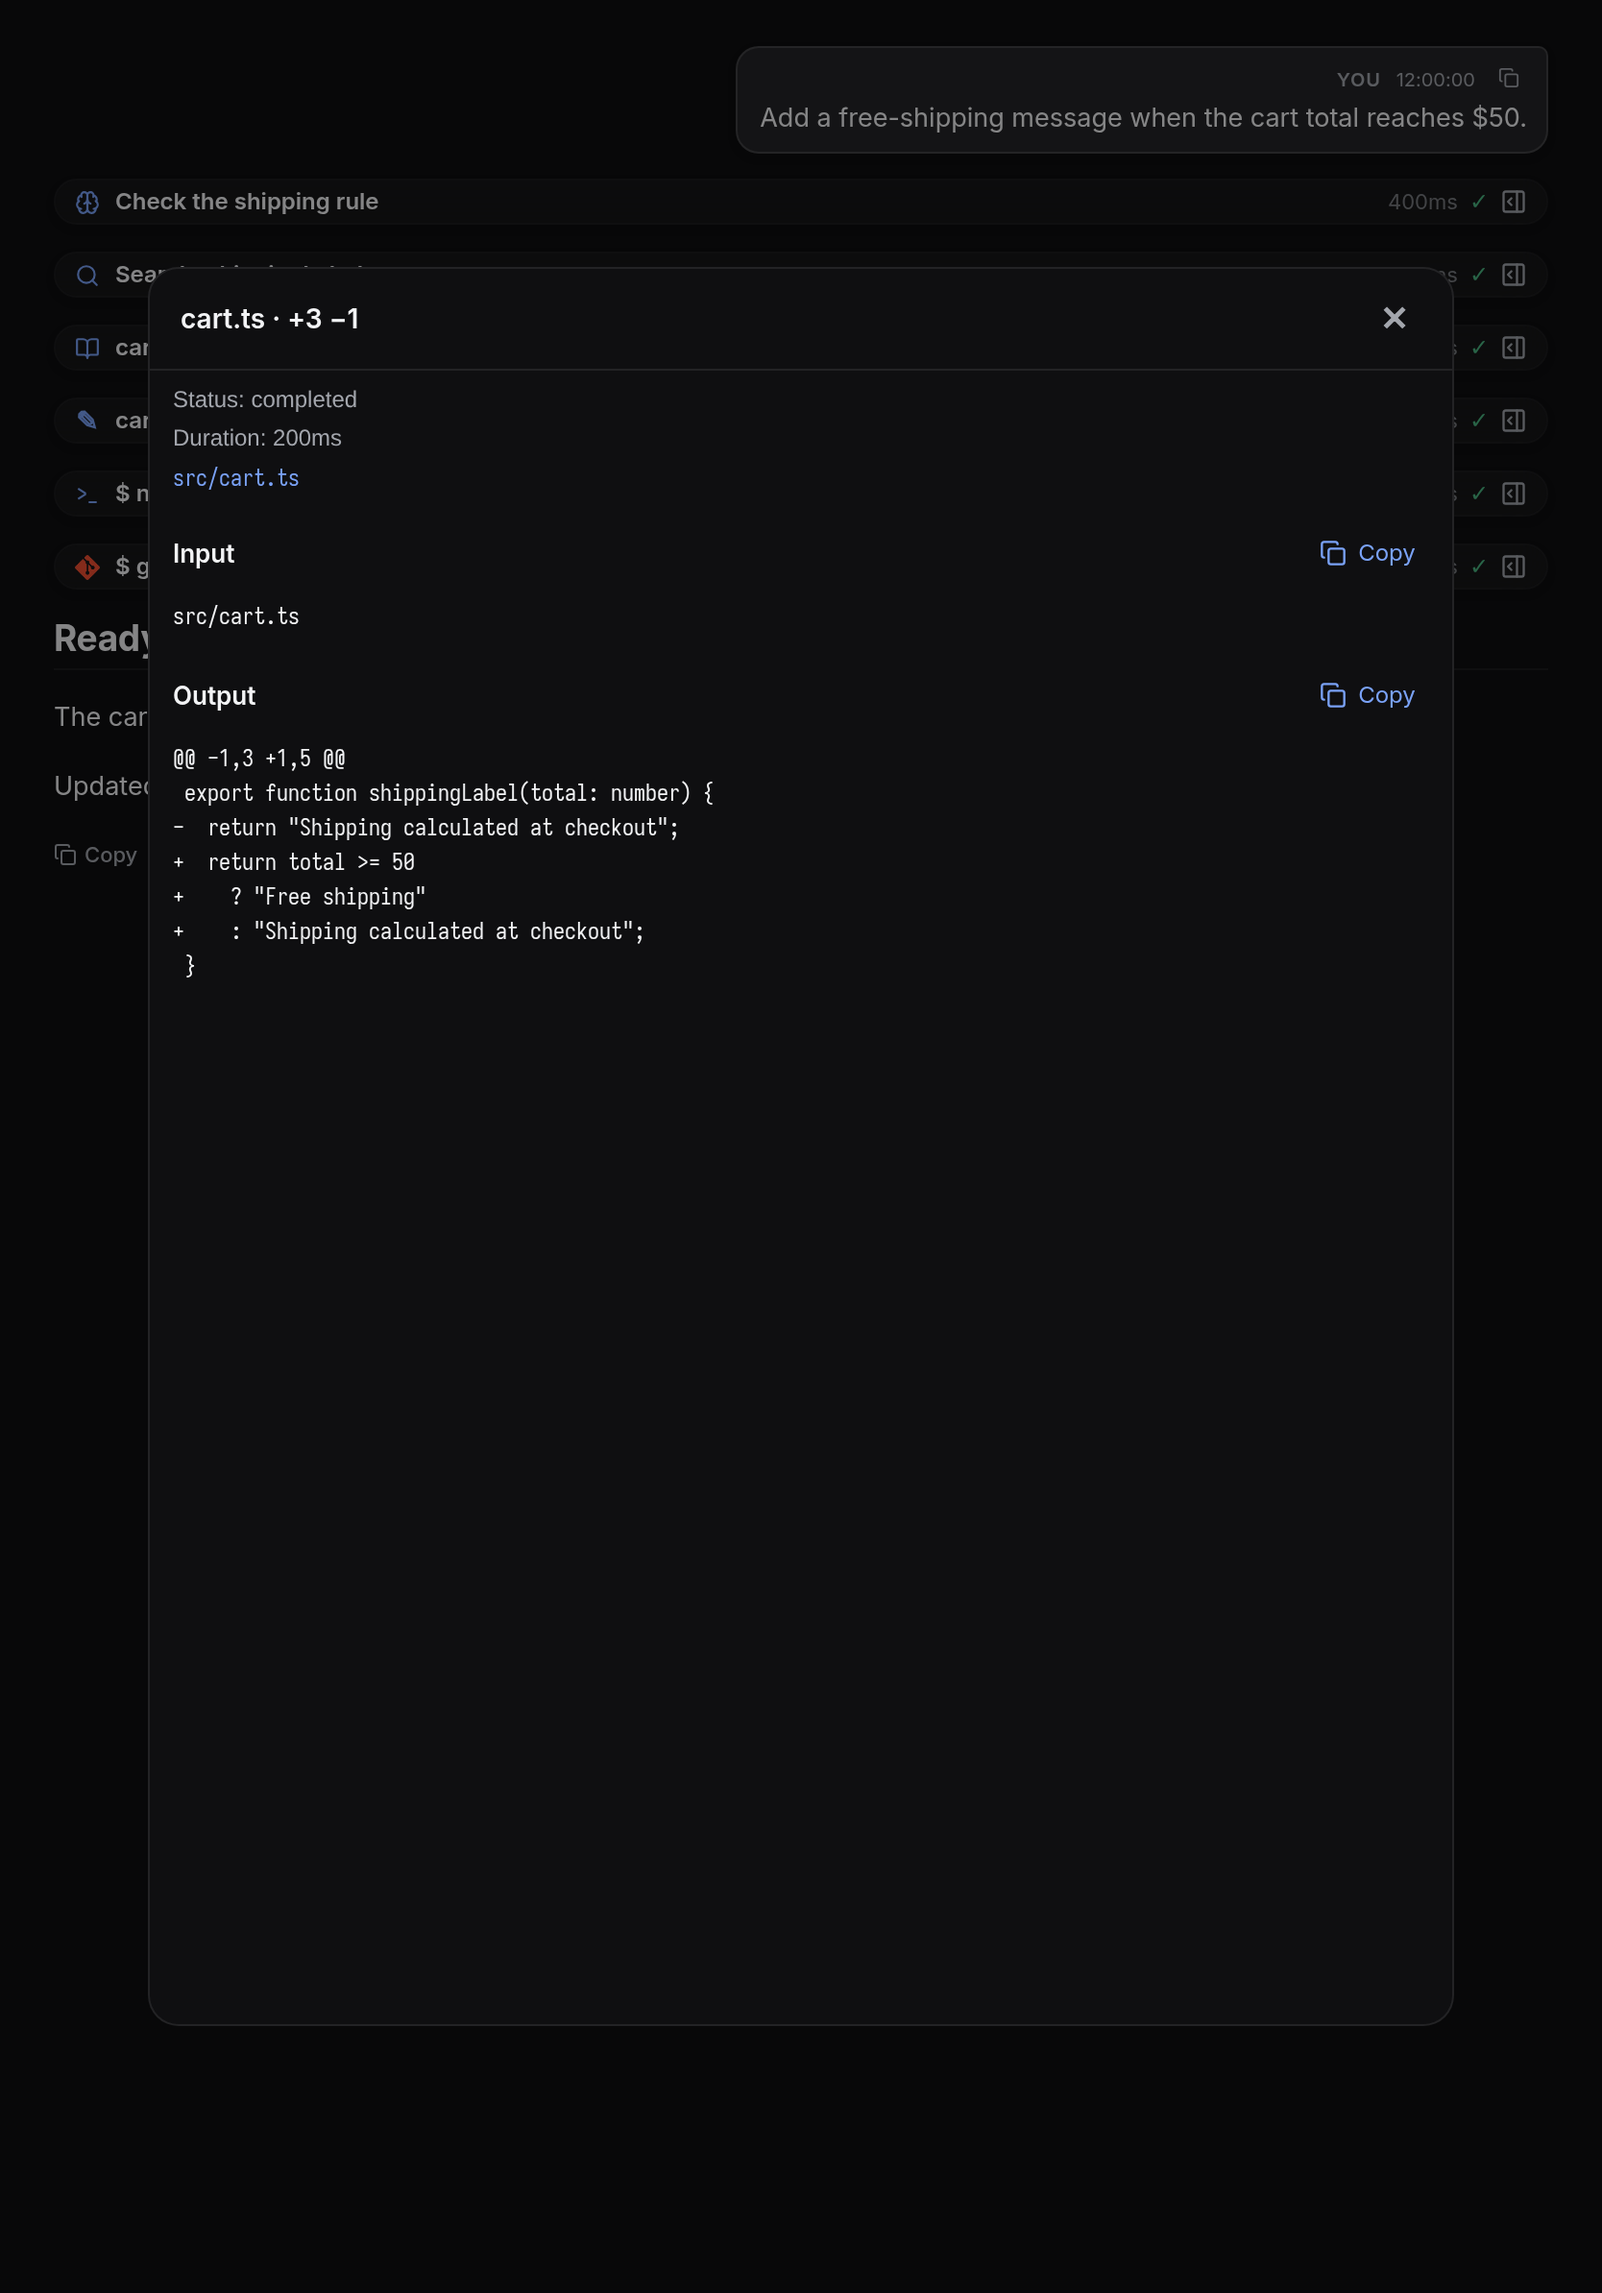
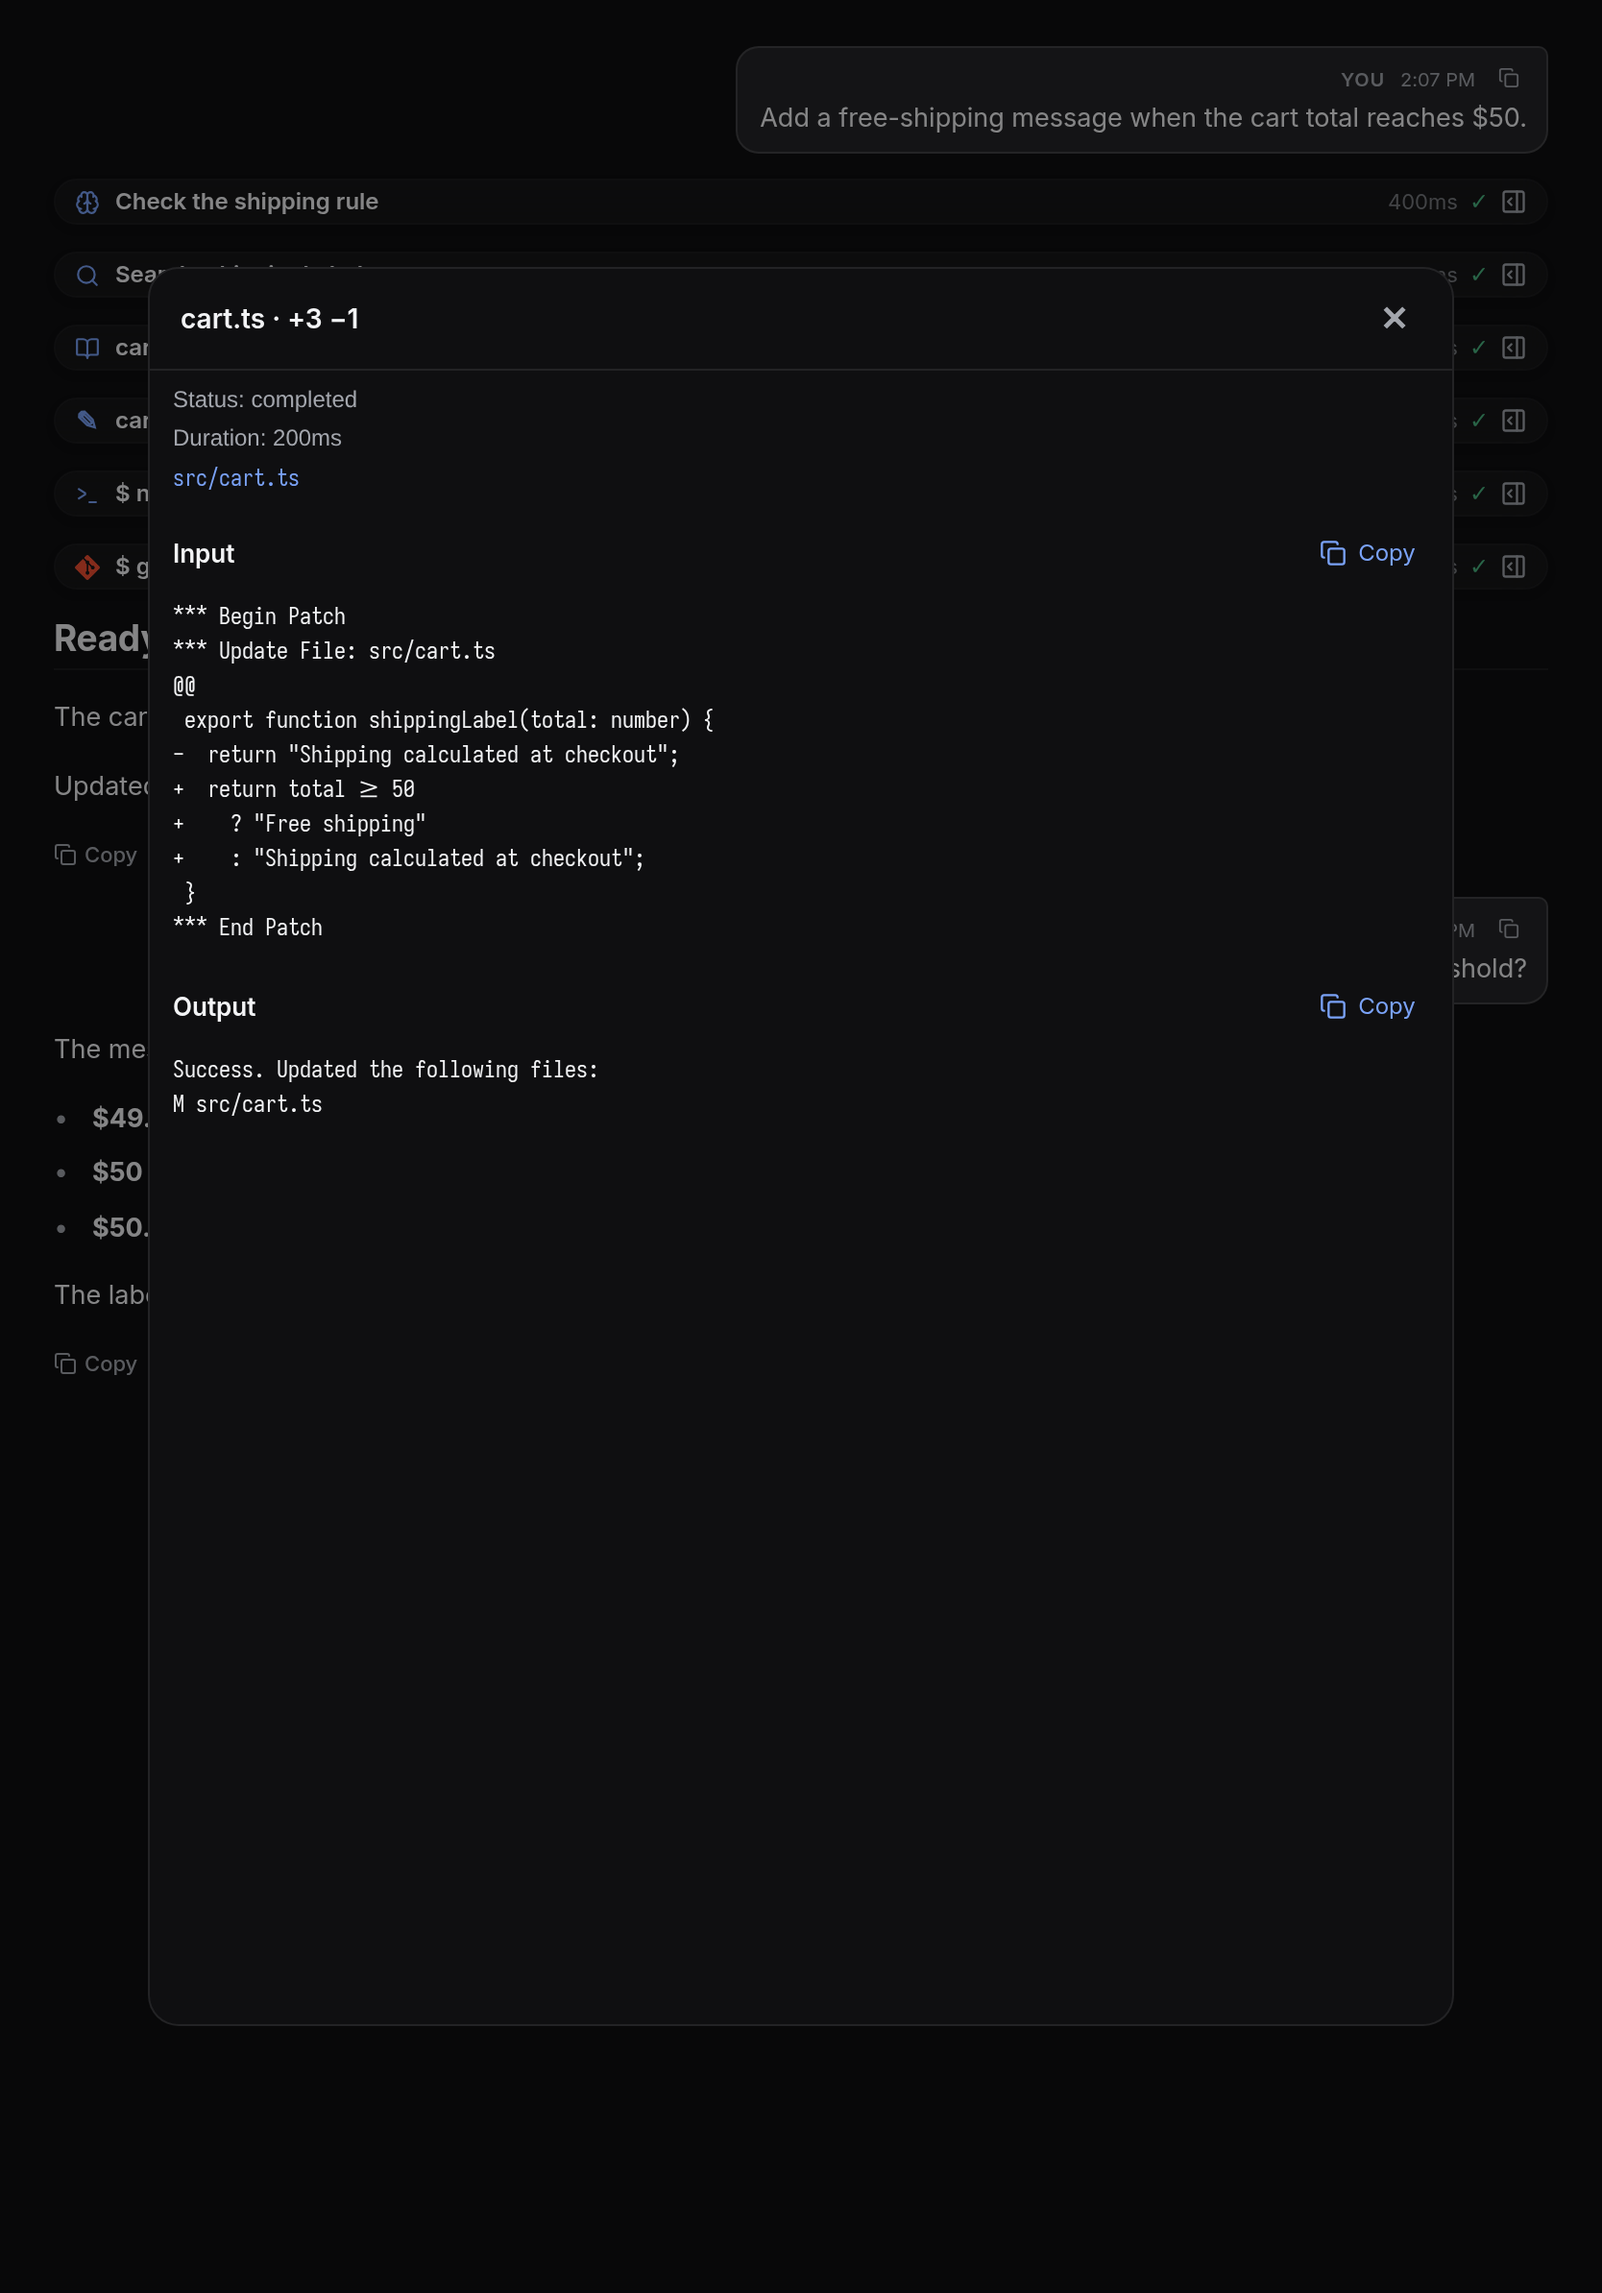
docs: retake README v2 screenshots with fuller demo and side-by-side hero

diff --git a/.showcase/fixtures.ts b/.showcase/fixtures.ts
@@ -3,6 +3,15 @@ import type { ApprovalRequest, ReasoningTraceData, TaskListData, ToolCalloutData
 
 export const PROMPT = "Add a free-shipping message when the cart total reaches $50.";
 export const REPLY = "## Ready to review\n\nThe cart now shows **Free shipping** at $50.\n\nUpdated `src/cart.ts` and covered the boundary cases. All **12 tests passed**.";
+export const FOLLOW_UP = "What will shoppers see around the $50 threshold?";
+export const FOLLOW_UP_REPLY = "The message follows the cart subtotal:\n\n- **$49.99** — Shipping calculated at checkout\n- **$50** — Free shipping\n- **$50.01** — Free shipping\n\nThe label updates as items are added or removed.";
+export const DEMO_TIMES = {
+  now: "2026-10-22T14:09:37Z",
+  prompt: "2026-10-22T14:07:23Z",
+  reply: "2026-10-22T14:08:14Z",
+  followUp: "2026-10-22T14:08:46Z",
+  followUpReply: "2026-10-22T14:09:12Z",
+};
 export const BEFORE_CODE = `export function shippingLabel(total: number) {
   return "Shipping calculated at checkout";
 }`;
@@ -18,6 +27,17 @@ export const DIFF = `@@ -1,3 +1,5 @@
 +    ? "Free shipping"
 +    : "Shipping calculated at checkout";
  }`;
+export const EDIT_PATCH = `*** Begin Patch
+*** Update File: src/cart.ts
+@@
+ export function shippingLabel(total: number) {
+-  return "Shipping calculated at checkout";
++  return total >= 50
++    ? "Free shipping"
++    : "Shipping calculated at checkout";
+ }
+*** End Patch`;
+export const EDIT_RESULT = "Success. Updated the following files:\nM src/cart.ts";
 export const WRAP_UP = JSON.stringify({
   recap: "## Cart update complete\n\n**Free shipping** now appears at $50. All 12 demo tests passed.",
   ask: "Which checkout detail should we tackle next?",
@@ -39,7 +59,7 @@ export const APPROVAL: ApprovalRequest = {
   id: "demo-approval", toolName: "bash", title: "Run the demo build", riskLevel: "low",
   rationale: "Writes generated files only inside the demo output directory.",
   command: "npm run build", targetPath: "/workspace/demo-shop/dist", cwd: "/workspace/demo-shop",
-  timeoutSeconds: 60, status: "pending", timestamp: "2026-01-01T12:00:00Z",
+  timeoutSeconds: 60, status: "pending", timestamp: DEMO_TIMES.prompt,
 };
 export const REASONING: ReasoningTraceData = {
   id: "demo-reasoning", agentModel: "Demo model", durationMs: 3200, totalTokens: 280, status: "completed",
@@ -87,9 +107,28 @@ export const TEST_OUTPUT = [
   "   PASS  cart updates refresh the shipping label",
   "   PASS  checkout renders the shipping summary",
   "",
+  "Verification:",
+  "  Helper: src/cart.ts > shippingLabel",
+  "  Currency: USD",
+  "  Threshold: $50 (inclusive)",
+  "  Existing checkout message preserved below $50",
+  "  Cart and checkout suites completed",
+  "  No skipped tests",
+  "  No failed tests",
+  "  No snapshot changes",
+  "",
   " Test Files  2 passed (2)",
   "      Tests  12 passed (12)",
   "   Duration  1.25s",
+  "",
+  "Shipping boundary report:",
+  JSON.stringify({
+    cases: [
+      { name: "below-threshold", subtotal: "$49.99", currency: "USD", threshold: "$50", comparison: "49.99 >= 50", eligible: false, expected: "Shipping calculated at checkout", received: "Shipping calculated at checkout", passed: true },
+      { name: "at-threshold", subtotal: "$50", currency: "USD", threshold: "$50", comparison: "50 >= 50", eligible: true, expected: "Free shipping", received: "Free shipping", passed: true },
+      { name: "above-threshold", subtotal: "$50.01", currency: "USD", threshold: "$50", comparison: "50.01 >= 50", eligible: true, expected: "Free shipping", received: "Free shipping", passed: true },
+    ],
+  }, null, 2),
   "",
   "12 tests passed",
 ].join("\n");
@@ -99,7 +138,7 @@ export const CALLS: Record<string, ToolCalloutData> = {
     shell: { command: "npm test", cwd: "/workspace/demo-shop", exitCode: 0, stdout: TEST_OUTPUT } },
   git: { ...completed, id: "demo-git", durationMs: 200, tool: "git", title: "git diff --stat", command: "git diff --stat", shell: { command: "git diff --stat", stdout: "src/cart.ts       | 4 +++-\ntest/cart.test.ts | 9 +++++++++\n2 files changed, 12 insertions(+), 1 deletion(-)" } },
   read: { ...completed, id: "demo-read", durationMs: 100, tool: "read", title: "Read src/cart.ts", filePath: "src/cart.ts", language: "typescript", lineRange: "1-5", code: BEFORE_CODE, input: "src/cart.ts:1-5", copyResult: BEFORE_CODE },
-  edit: { ...completed, id: "demo-edit", durationMs: 200, input: "src/cart.ts", copyResult: DIFF, tool: "edit", title: "Edit src/cart.ts", filePath: "src/cart.ts", diff: DIFF, changes: { added: 3, removed: 1 } },
+  edit: { ...completed, id: "demo-edit", durationMs: 200, input: EDIT_PATCH, copyResult: EDIT_RESULT, tool: "edit", title: "Edit src/cart.ts", filePath: "src/cart.ts", diff: DIFF, changes: { added: 3, removed: 1 } },
   image: { ...completed, id: "demo-image", tool: "read", title: "Read assets/checkout.png", filePath: "assets/checkout.png" },
   thinking: { ...completed, id: "demo-thinking", durationMs: 400, tool: "thinking", title: "Check the shipping rule", thinking: { text: "The threshold includes exactly $50. Keep the existing message below that amount.", status: "completed", tokenCount: 120, steps: ["Locate the cart helper", "Use total >= 50", "Test the boundary values"] } },
   mcp: { ...completed, id: "demo-mcp", tool: "mcp", title: "catalog.lookup", mcp: { server: "demo-catalog", tool: "lookup", transport: "stdio", arguments: { sku: "sample-mug" }, result: '{"name":"Sample mug","price":25,"currency":"USD"}' } },

diff --git a/.showcase/demo.tsx b/.showcase/demo.tsx
@@ -8,9 +8,21 @@ import { StepDetailPanel } from "../client/components/step-detail-panel";
 import { createStepDetailState } from "../client/components/step-detail-state";
 import { stepDetailPresentation } from "../client/breakpoints";
 import { MarkdownView } from "../client/components/markdown/markdown-view";
-import { UserMessage } from "../client/components/user-message";
-import { AssistantFooter } from "../client/components/turn-footer";
-import { DEMO_STEPS, PROMPT, REPLY } from "./fixtures";
+import { Glyph } from "../client/components/glyph";
+import { AssistantFooter, formatReplyTime } from "../client/components/turn-footer";
+import { DEMO_STEPS, DEMO_TIMES, PROMPT, REPLY, FOLLOW_UP, FOLLOW_UP_REPLY } from "./fixtures";
+
+/** The host owns prompt timestamps; use its default formatter for both roles. */
+function HostPrompt({ text, at, tokens, marginTop = 0 }: { text: string; at: string; tokens: ExtendedThemeTokens; marginTop?: number }) {
+  return <div data-testid="demo-prompt" style={{ alignSelf: "flex-end", maxWidth: "82%", marginTop, padding: "8px 10px 8px 12px", borderRadius: 12, borderTopRightRadius: 5, border: `1px solid ${tokens.userBorder}`, background: tokens.userSurface, color: tokens.userText }}>
+    <div style={{ display: "flex", alignItems: "center", justifyContent: "flex-end", gap: 8, fontSize: tokens.fs(10), color: tokens.userTextMuted, marginBottom: 3 }}>
+      <span style={{ fontWeight: 600, letterSpacing: 0.4 }}>YOU</span>
+      <time dateTime={at}>{formatReplyTime(new Date(at))}</time>
+      <button aria-label="Copy message" onClick={() => navigator.clipboard.writeText(text)} style={{ display: "flex", border: 0, background: "transparent", padding: "2px 4px" }}><Glyph name="Copy" size={11} color={tokens.userTextMuted} /></button>
+    </div>
+    <div style={{ fontSize: tokens.fs(13.5), lineHeight: `${tokens.fs(20)}px` }}>{text}</div>
+  </div>;
+}
 
 export function Demo({ tokens, animate = false }: { tokens: ExtendedThemeTokens; animate?: boolean }) {
   const { width } = useWindowDimensions();
@@ -32,7 +44,7 @@ export function Demo({ tokens, animate = false }: { tokens: ExtendedThemeTokens;
     <main style={{ display: "flex", flex: 1, minHeight: 0 }}>
       <div data-testid="demo-chat" style={{ flex: 1, minWidth: 0, overflow: "auto", padding: compact ? "12px 12px" : "24px 28px" }}>
         <div data-testid="demo-transcript" style={{ maxWidth: 840, margin: "0 auto", display: "flex", flexDirection: "column", gap: compact ? 6 : 12 }}>
-          <UserMessage text={PROMPT} timestamp={new Date("2026-01-01T12:00:00Z")} tokens={tokens} />
+          <HostPrompt text={PROMPT} at={DEMO_TIMES.prompt} tokens={tokens} />
           {DEMO_STEPS.slice(0, Math.min(phase + 1, DEMO_STEPS.length)).map((step, index) => {
             const running = phase === index;
             return <div key={step.id} data-testid={`demo-step-${index}`}><ToolCallout
@@ -42,11 +54,18 @@ export function Demo({ tokens, animate = false }: { tokens: ExtendedThemeTokens;
           })}
           {phase >= DEMO_STEPS.length ? <div data-testid="demo-reply">
             <MarkdownView text={REPLY} tokens={tokens} variant="document" />
-            <div style={{ paddingTop: 8 }}><AssistantFooter text={REPLY} at={new Date("2026-01-01T12:01:00Z")} tokens={tokens} /></div>
+            <div style={{ paddingTop: 8 }}><AssistantFooter text={REPLY} at={new Date(DEMO_TIMES.reply)} tokens={tokens} /></div>
           </div> : null}
+          {phase >= DEMO_STEPS.length ? <>
+            <HostPrompt text={FOLLOW_UP} at={DEMO_TIMES.followUp} tokens={tokens} marginTop={compact ? 32 : 0} />
+            <div data-testid="demo-follow-up">
+              <MarkdownView text={FOLLOW_UP_REPLY} tokens={tokens} variant="document" />
+              <div style={{ paddingTop: 8 }}><AssistantFooter text={FOLLOW_UP_REPLY} at={new Date(DEMO_TIMES.followUpReply)} tokens={tokens} /></div>
+            </div>
+          </> : null}
         </div>
       </div>
-      {selected ? <aside style={{ display: presentation === "side" ? "flex" : "contents", width: width >= 1400 ? 520 : 440, flexShrink: 0, minHeight: 0, borderLeft: `1px solid ${tokens.border}` }}>
+      {selected ? <aside style={{ display: presentation === "side" ? "flex" : "contents", width: tokens.textScale > 1 ? 690 : width >= 1400 ? 520 : 440, flexShrink: 0, minHeight: 0, borderLeft: `1px solid ${tokens.border}` }}>
         <StepDetailPanel key={selected.id} step={selected} open onOpenChange={open => { if (!open) setSelected(null); }} presentation={presentation} tokens={tokens} viewState={viewState} />
       </aside> : null}
     </main>

diff --git a/.showcase/readme-capture.tsx b/.showcase/readme-capture.tsx
@@ -6,6 +6,7 @@ import { installFrostedGlass } from "../client/components/frosted";
 import { installCompactToolSpacing } from "../client/tool-row-spacing";
 import { buildThemeTokens } from "../client/components/theme-tokens";
 import { Demo } from "./demo";
+import { DEFAULT_PREFERENCES } from "../client/preferences";
 
 const params = new URLSearchParams(location.search);
 const colors = params.get("theme") === "dark" ? {
@@ -25,4 +26,5 @@ document.body.style.background = colors.surface0;
 document.documentElement.style.overflow = "hidden";
 document.getElementById("root")!.style.display = "block";
 const translations = new PluginTranslationRuntime({ getLocale: () => "en", subscribe: () => () => {} });
-createRoot(document.getElementById("root")!).render(<PluginTranslationProvider runtime={translations}><Demo tokens={buildThemeTokens(colors)} animate={params.has("animate")} /></PluginTranslationProvider>);
+const textScale = Number(params.get("textScale") || 1);
+createRoot(document.getElementById("root")!).render(<PluginTranslationProvider runtime={translations}><Demo tokens={buildThemeTokens(colors, { ...DEFAULT_PREFERENCES, textScale })} animate={params.has("animate")} /></PluginTranslationProvider>);
